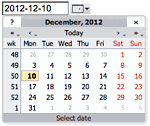
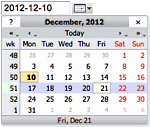
Item7077: Initial version of DatePickerPlugin - tweaking css for better TWiki look; updating screenshots
git-svn-id: http://develop.twiki.org/svn/twiki/trunk@24424 a00a5322-12db-0310-a70b-8735589c885e

diff --git a/DatePickerPlugin/pub/TWiki/DatePickerPlugin/calendar-twiki.css b/DatePickerPlugin/pub/TWiki/DatePickerPlugin/calendar-twiki.css
@@ -12,7 +12,7 @@ div.calendar { position: relative; }
   font-size: 11px;
   color: #000;
   cursor: default;
-  background: #fdfeff;
+  background: #edeef1;
   font-family: tahoma,verdana,sans-serif;
 }
 
@@ -30,7 +30,7 @@ div.calendar { position: relative; }
 .calendar thead .title { /* This holds the current "month, year" */
   font-weight: bold;      /* Pressing it will take you to the current date */
   text-align: center;
-  background: #b3b2ab url(twiki-bg.gif) repeat-x 100% 100%;
+  background: #b3b2ab url(twiki-bg.gif) repeat-x;
   color: #222;
   padding: 2px;
 }
@@ -68,6 +68,10 @@ div.calendar { position: relative; }
 }
 
 /* The body part -- contains all the days in month. */
+
+.calendar tbody td {
+  background: #fdfeff;
+}
 
 .calendar tbody .day { /* Cells <TD> containing month days dates */
   width: 2em;
@@ -140,7 +144,7 @@ div.calendar { position: relative; }
 
 .calendar tfoot .ttip { /* Tooltip (status bar) cell <TD> */
   border-top: 1px solid #a2a5ae;
-  background: #b3b2ab url(twiki-bg.gif) repeat-x 100% 100%;
+  background: #b3b2ab url(twiki-bg.gif) repeat-x;
   color: #420;
 }
 
